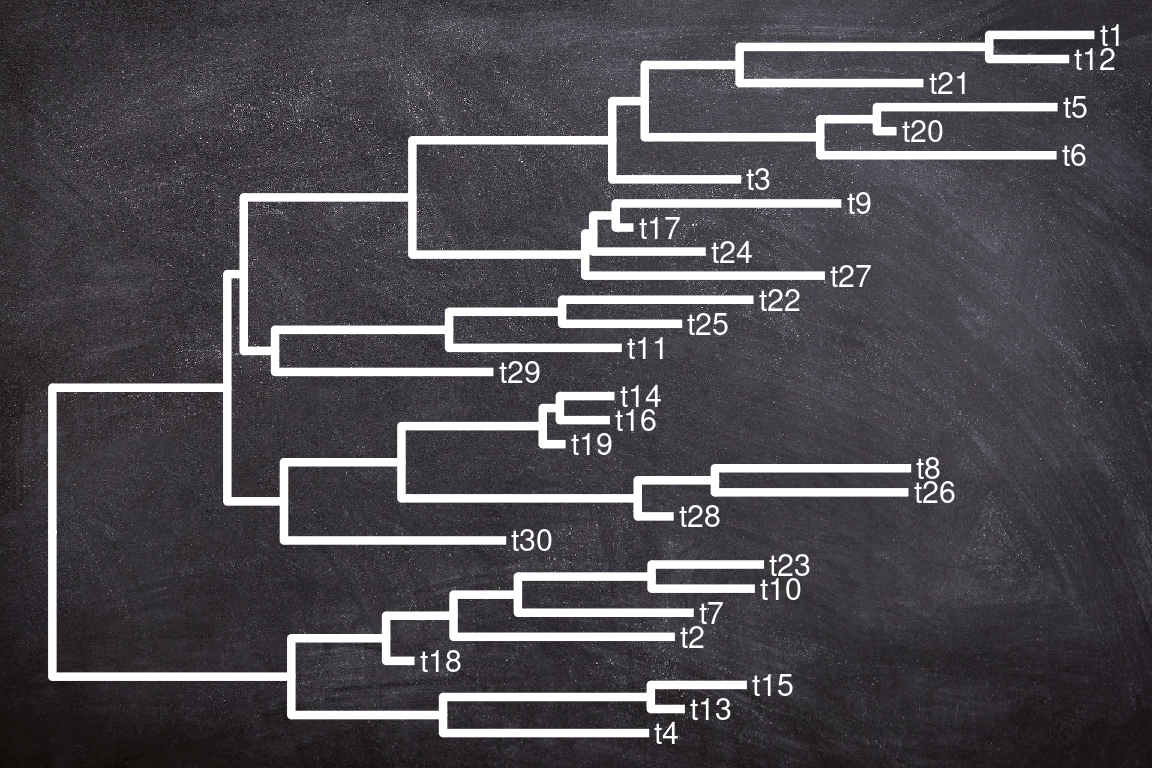
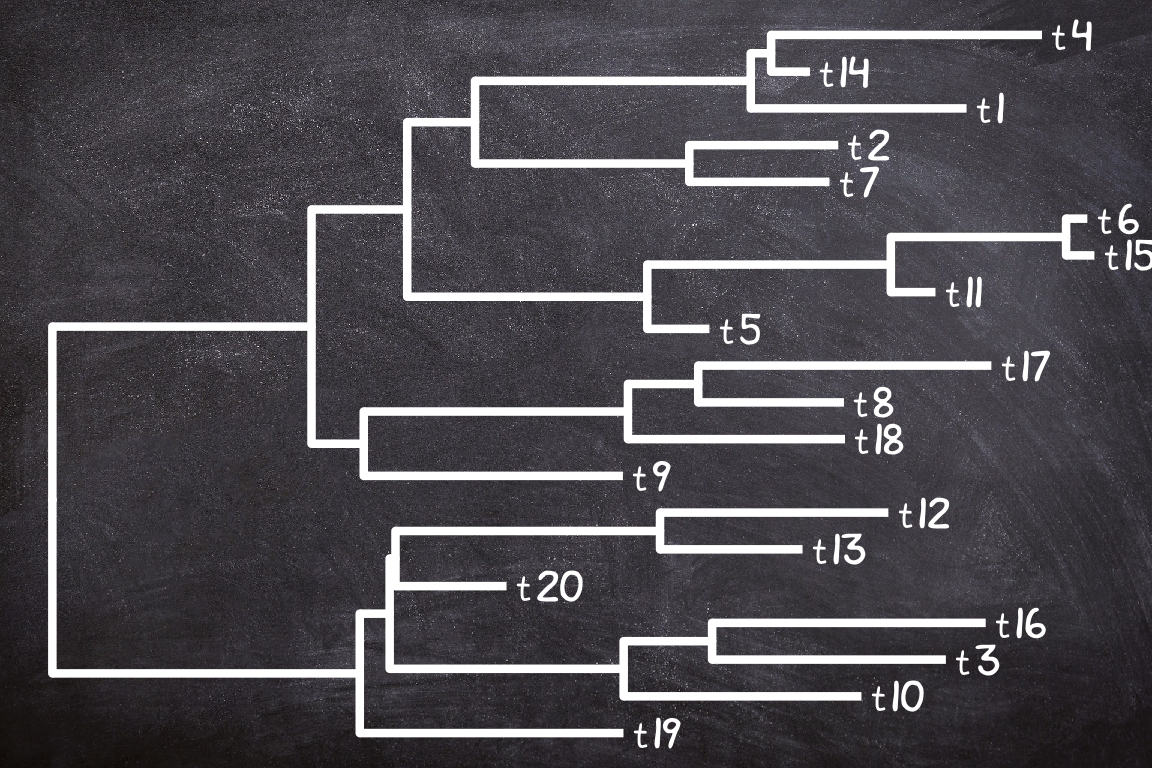
xkcd font

Changed region(s): [[0.0312, 0.0312, 1.0, 0.9688]]

diff --git a/docs/ggimage-tips.html b/docs/ggimage-tips.html
@@ -346,9 +346,9 @@ Figure B.1: <strong>Remove image background.</strong> Plotting silhouette images
 <p>The <code>geom_bgimage</code> add a layer of the image and put the layer to the bottom of the layer stack. It is a normal layer and doesn’t change the structure of the output <code>ggtree</code> object. Users can add annotation layers as without the background image layer.</p>
 
 
-<div class="sourceCode" id="cb251"><pre class="sourceCode r"><code class="sourceCode r"><span id="cb251-1"><a href="ggimage-tips.html#cb251-1"></a><span class="kw">ggtree</span>(<span class="kw">rtree</span>(<span class="dv">30</span>), <span class="dt">size=</span><span class="fl">1.5</span>, <span class="dt">color=</span><span class="st">&quot;white&quot;</span>) <span class="op">+</span><span class="st"> </span></span>
+<div class="sourceCode" id="cb251"><pre class="sourceCode r"><code class="sourceCode r"><span id="cb251-1"><a href="ggimage-tips.html#cb251-1"></a><span class="kw">ggtree</span>(<span class="kw">rtree</span>(<span class="dv">20</span>), <span class="dt">size=</span><span class="fl">1.5</span>, <span class="dt">color=</span><span class="st">&quot;white&quot;</span>) <span class="op">+</span><span class="st"> </span></span>
 <span id="cb251-2"><a href="ggimage-tips.html#cb251-2"></a><span class="st">  </span><span class="kw">geom_bgimage</span>(<span class="st">&#39;img/blackboard.jpg&#39;</span>) <span class="op">+</span><span class="st"> </span></span>
-<span id="cb251-3"><a href="ggimage-tips.html#cb251-3"></a><span class="st">  </span><span class="kw">geom_tiplab</span>(<span class="dt">color=</span><span class="st">&quot;white&quot;</span>, <span class="dt">size=</span><span class="dv">4</span>)</span></code></pre></div>
+<span id="cb251-3"><a href="ggimage-tips.html#cb251-3"></a><span class="st">  </span><span class="kw">geom_tiplab</span>(<span class="dt">color=</span><span class="st">&quot;white&quot;</span>, <span class="dt">size=</span><span class="dv">5</span>, <span class="dt">family=</span><span class="st">&#39;xkcd&#39;</span>)</span></code></pre></div>
 <div class="figure"><span id="fig:bgimage"></span>
 <img src="treedata_files/figure-html/bgimage-1.png" alt="Use image file as tree background." width="576" />
 <p class="caption">
